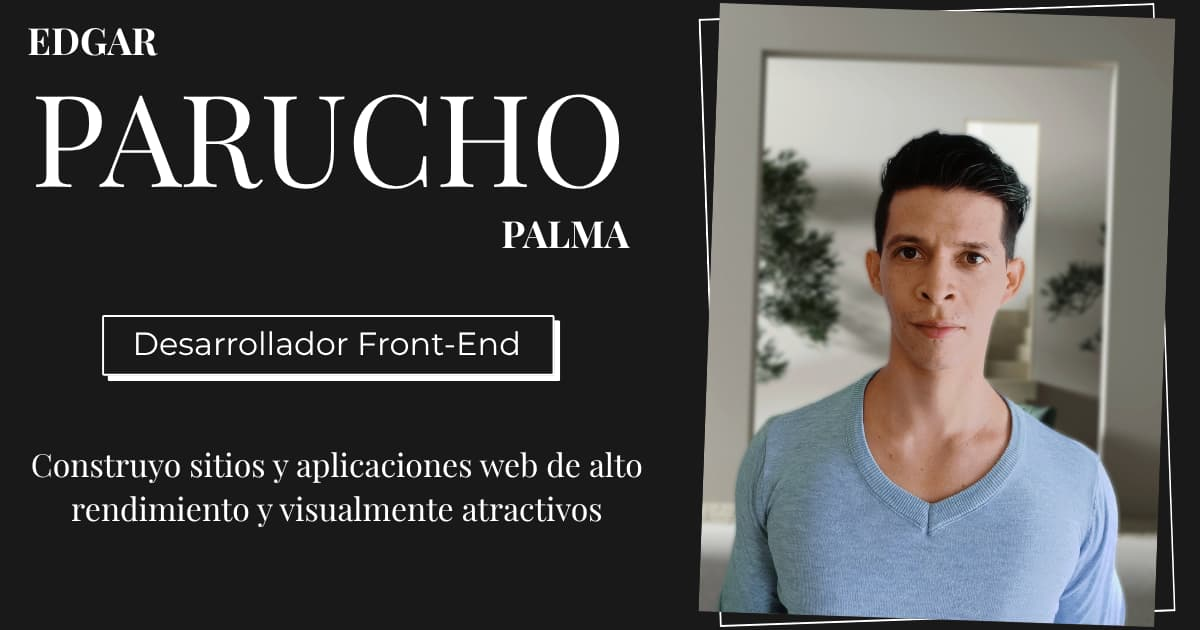
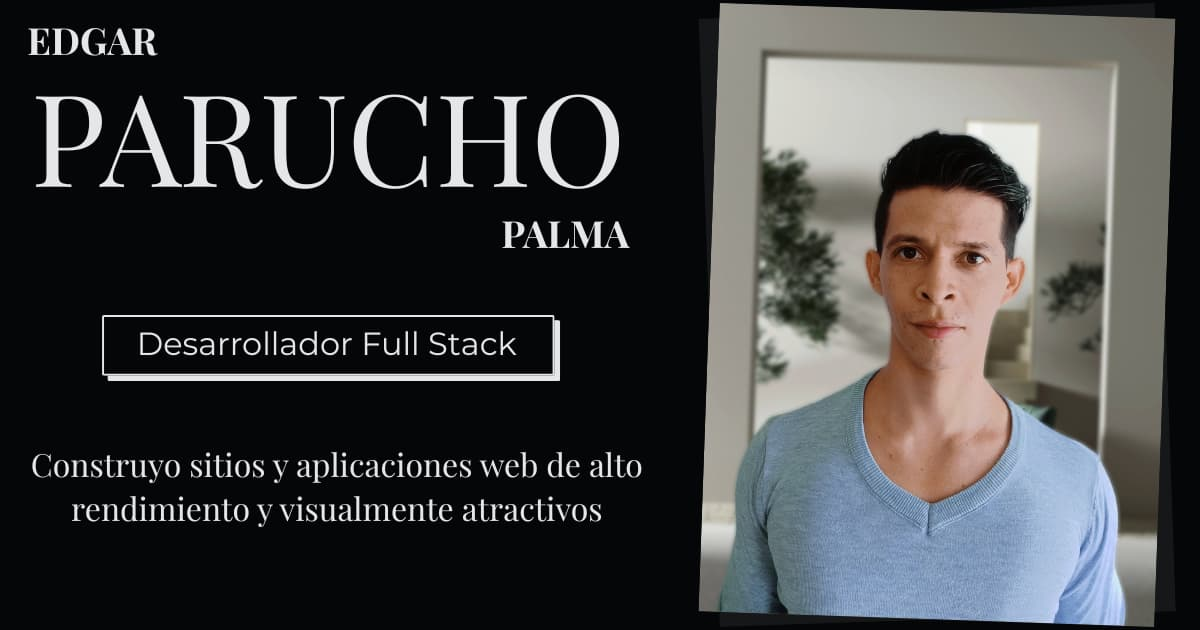
Update theme colors and preview image.

diff --git a/style.css b/style.css
@@ -12,10 +12,10 @@
 }
 
 :root {
-  --light: #fff;
-  --dark: #191919;
-  --accent-light: #eee;
-  --accent-dark: #242424;
+  --light: #e5e6e7;
+  --dark: #050607;
+  --accent-light: #d5d7d9;
+  --accent-dark: #151719;
   font-size: 62.5%;
 }
 
@@ -196,7 +196,6 @@ img {
   width: 100%;
   height: 100%;
   border-radius: 2px;
-  border: 1px solid var(--font-color);
   background-color: var(--accent);
   content: "";
   position: absolute;
